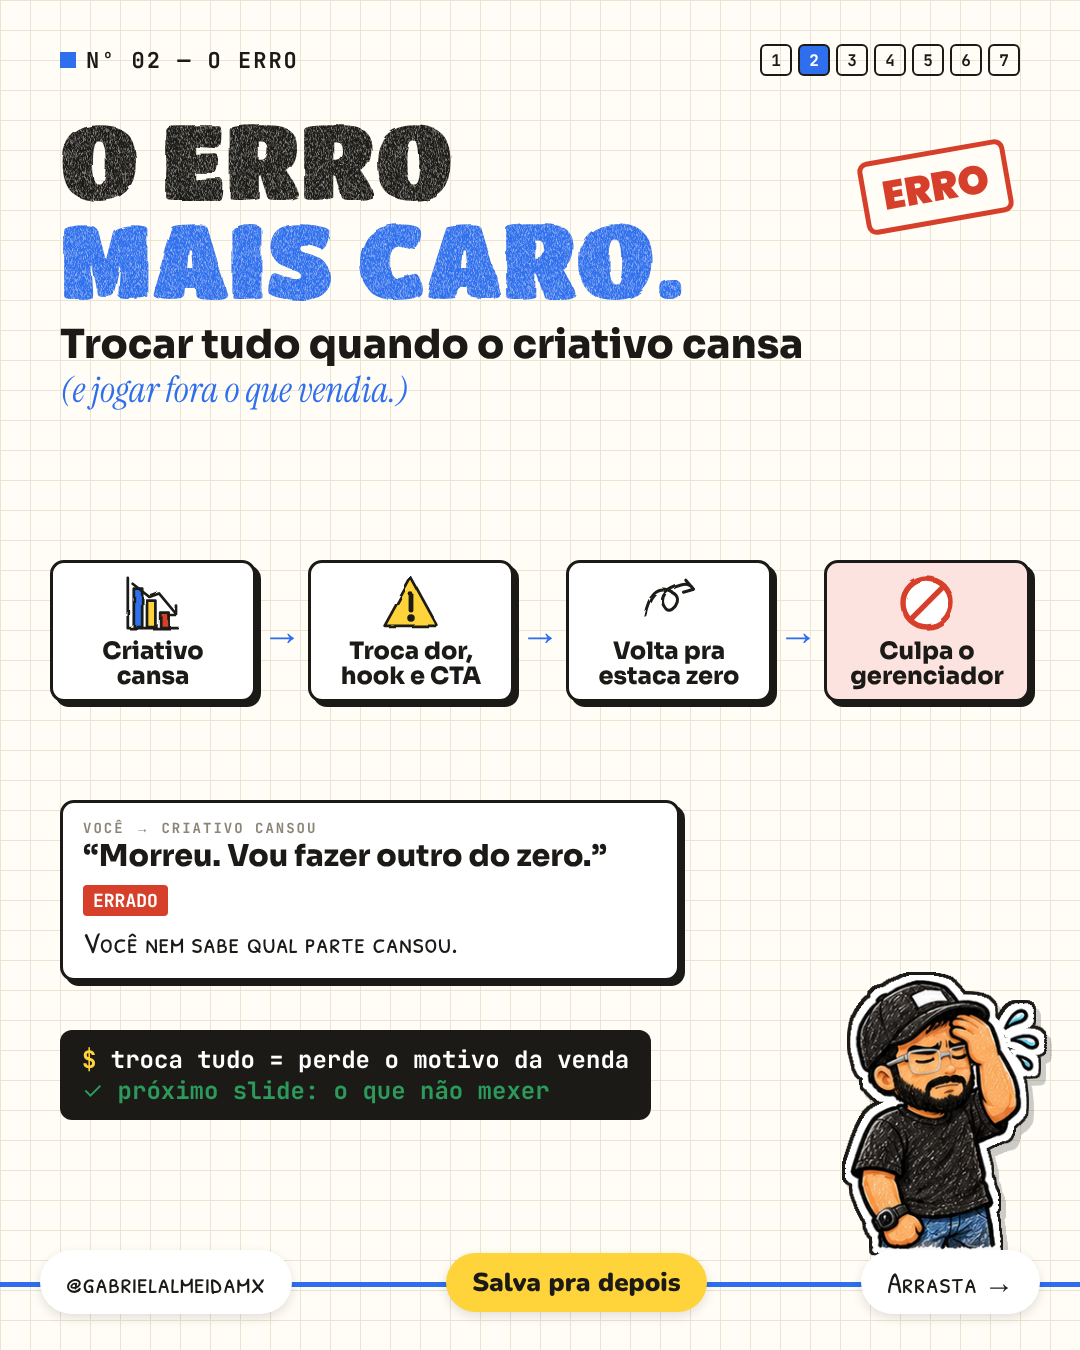
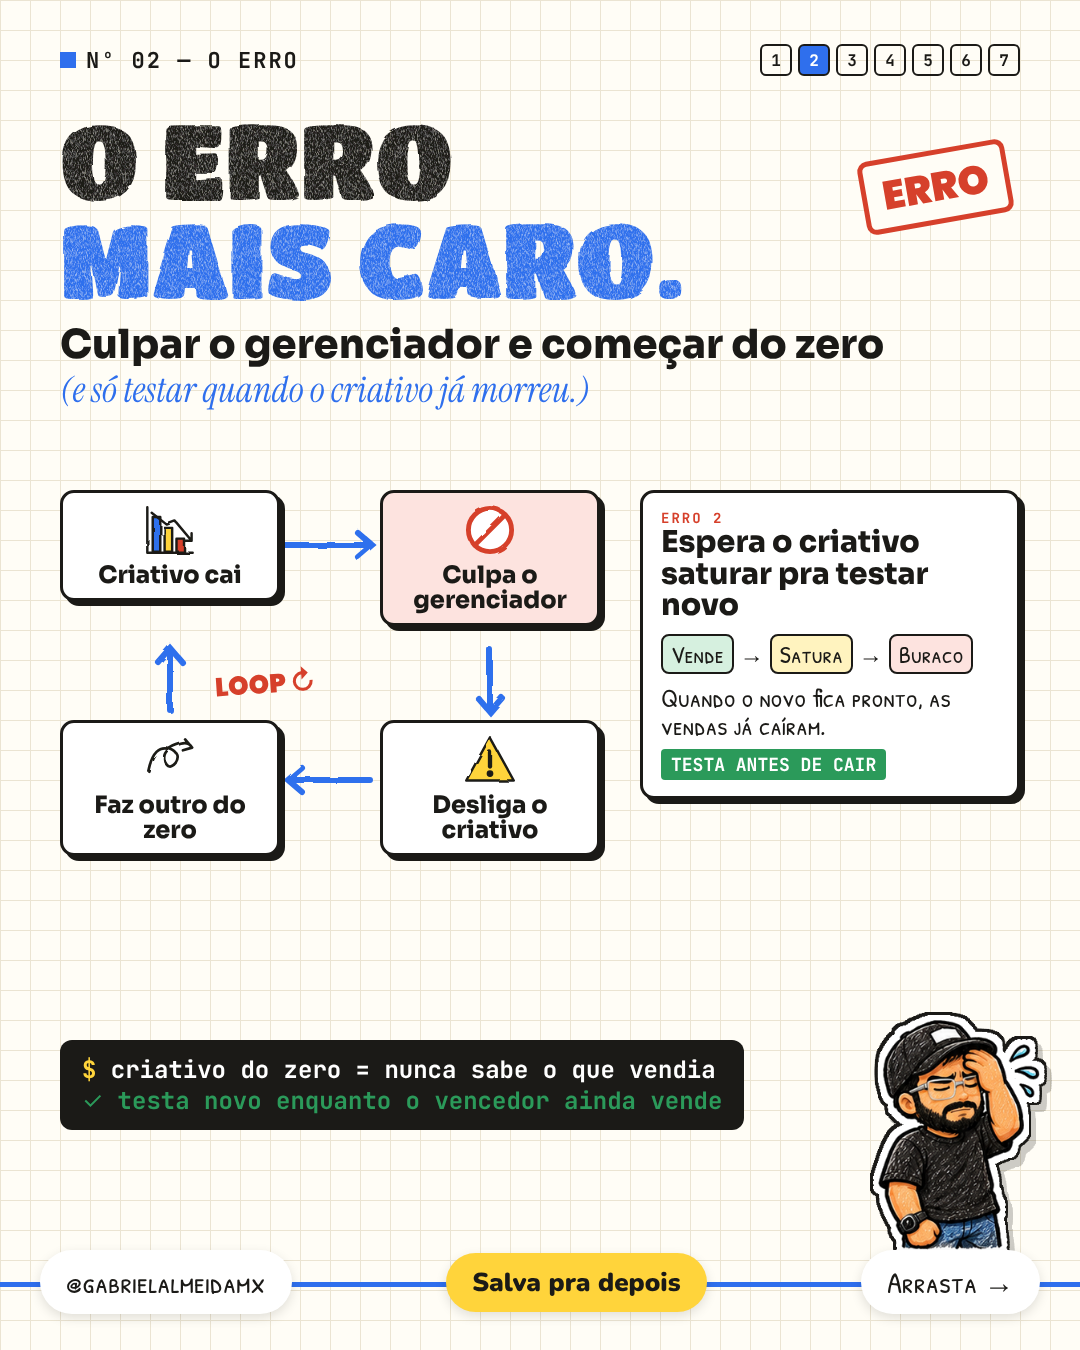
Slide 2: loop do criativo do zero + esperar saturar
Claude-Session: https://claude.ai/code/session_01Md5T5VQj3VmppQmeifTP3X

Changed region(s): [[0.0306, 0.3422, 0.9778, 0.84], [0.7639, 0.7156, 0.9778, 0.9333], [0.0611, 0.2489, 0.825, 0.3111]]

diff --git a/template/ficha-criativo.py b/template/ficha-criativo.py
@@ -13,12 +13,14 @@ def pose(n,h=250,r=40,b=100): return f"<img style='position:absolute;right:{r}px
 def stamp(t,c): return f"<div style='position:absolute;top:150px;right:70px;transform:rotate(-10deg);border:5px solid {c};color:{c};font-family:TP;font-weight:900;font-size:40px;padding:2px 16px;border-radius:10px;background:#fffdf6'>{t}</div>"
 S=[]
 # 2 erro
-arrow="<div style='font-family:TP;font-weight:900;font-size:40px;color:#2f6fed'>→</div>"
-flow=arrow.join(f"<div class='box' style='padding:10px 14px;text-align:center;width:210px;{bg}'><div style='width:60px;height:60px;margin:0 auto'>{I[ic]}</div><div style='font-family:TS;font-weight:800;font-size:24px;line-height:1.05;margin-top:6px'>{t}</div></div>" for ic,t,bg in [('chartdown','Criativo cansa',''),('warning','Troca dor, hook e CTA',''),('arrowcurl','Volta pra estaca zero',''),('ban','Culpa o gerenciador','background:#fde3df')])
-S.append(head(2,'O erro')+stamp('ERRO','#d6402b')+title('O erro','mais caro.','Trocar tudo quando o criativo cansa','(e jogar fora o que vendia.)')+
- f"<div style='position:absolute;top:560px;left:50px;right:50px;display:flex;align-items:center;gap:6px'>{flow}</div>"+
- f"<div class='box' style='position:absolute;top:800px;left:60px;width:620px;padding:16px 20px'><div class='mono' style='font-size:14px;color:#8b8577'>Você → criativo cansou</div><div style='font-family:TS;font-weight:800;font-size:30px'>“Morreu. Vou fazer outro do zero.”</div><div style='margin-top:10px'>{tag('ERRADO','#d6402b')}</div><div style='font-size:30px;margin-top:6px'>Você nem sabe qual parte cansou.</div></div>"+
- f"<div style='position:absolute;top:1030px;left:60px'>{term('troca tudo = perde o motivo da venda','próximo slide: o que não mexer')}</div>"+pose('frustrado',270))
+def cb(ic,t,x,y,bg='#fff'): return f"<div class='box' style='position:absolute;left:{x}px;top:{y}px;width:220px;padding:10px 12px;text-align:center;background:{bg}'><div style='width:54px;height:54px;margin:0 auto'>{I[ic]}</div><div style='font-family:TS;font-weight:800;font-size:24px;line-height:1.05;margin-top:6px'>{t}</div></div>"
+cyc=cb('chartdown','Criativo cai',60,560)+cb('ban','Culpa o gerenciador',380,560,'#fde3df')+cb('warning','Desliga o criativo',380,790)+cb('arrowcurl','Faz outro do zero',60,790)
+arr="<svg style='position:absolute;left:0;top:0;width:1080px;height:1350px' viewBox='0 0 1080 1350'><g fill='none' stroke='#2f6fed' stroke-width='6' stroke-linecap='round' filter='url(#rough)'><path d='M285 615 L370 615 M358 603 L372 615 L358 627'/><path d='M490 720 L490 780 M478 768 L490 782 L502 768'/><path d='M370 850 L290 850 M302 838 L288 850 L302 862'/><path d='M170 780 L170 720 M158 732 L170 718 L182 732'/></g></svg>"
+loop="<div style='position:absolute;left:215px;top:735px;font-family:TP;font-weight:900;font-size:26px;color:#d6402b;transform:rotate(-4deg)'>LOOP ↻</div>"
+e2=f"<div class='box' style='position:absolute;left:640px;top:560px;width:380px;padding:16px 18px;background:#fff'><div class='mono' style='font-size:14px;color:#d6402b'>Erro 2</div><div style='font-family:TS;font-weight:800;font-size:30px;line-height:1.05'>Espera o criativo saturar pra testar novo</div><div style='display:flex;align-items:center;gap:6px;margin-top:12px;font-size:24px'><span style='background:#d6f0df;border:2px solid #1b1a17;border-radius:8px;padding:2px 8px'>Vende</span>→<span style='background:#fff3bf;border:2px solid #1b1a17;border-radius:8px;padding:2px 8px'>Satura</span>→<span style='background:#fde3df;border:2px solid #1b1a17;border-radius:8px;padding:2px 8px'>Buraco</span></div><div style='font-size:26px;margin-top:10px;line-height:1.1'>Quando o novo fica pronto, as vendas já caíram.</div><div style='margin-top:8px'>{tag('TESTA ANTES DE CAIR','#2b9a5a')}</div></div>"
+S.append(head(2,'O erro')+stamp('ERRO','#d6402b')+title('O erro','mais caro.','Culpar o gerenciador e começar do zero','(e só testar quando o criativo já morreu.)')+
+ "<div style=\x27position:absolute;inset:0;transform:translateY(-70px)\x27>"+arr+cyc+loop+e2+"</div>"+
+ f"<div style='position:absolute;top:1040px;left:60px'>{term('criativo do zero = nunca sabe o que vendia','testa novo enquanto o vencedor ainda vende')}</div>"+pose('frustrado',230,40,100))
 # 3 fixo
 S.append(head(3,'O fixo')+stamp('NÃO MEXE','#1b1a17')+title('A parte','fixa.','O que aparece em todos os seus vencedores','(se repete em 3 de 3, é fixo.)')+
  f"<div style='position:absolute;top:560px;left:60px;width:640px;display:flex;flex-direction:column;gap:14px'>{card('target','01','A dor','A mesma dor em todos os vencedores','#fff3bf')}{card('hook','02','O tipo de hook','Pergunta, choque, número… o mesmo jeito de abrir','#fff3bf')}{card('megaphone','03','O CTA','O mesmo pedido no final, levando pro X1','#fff3bf')}</div>"+
